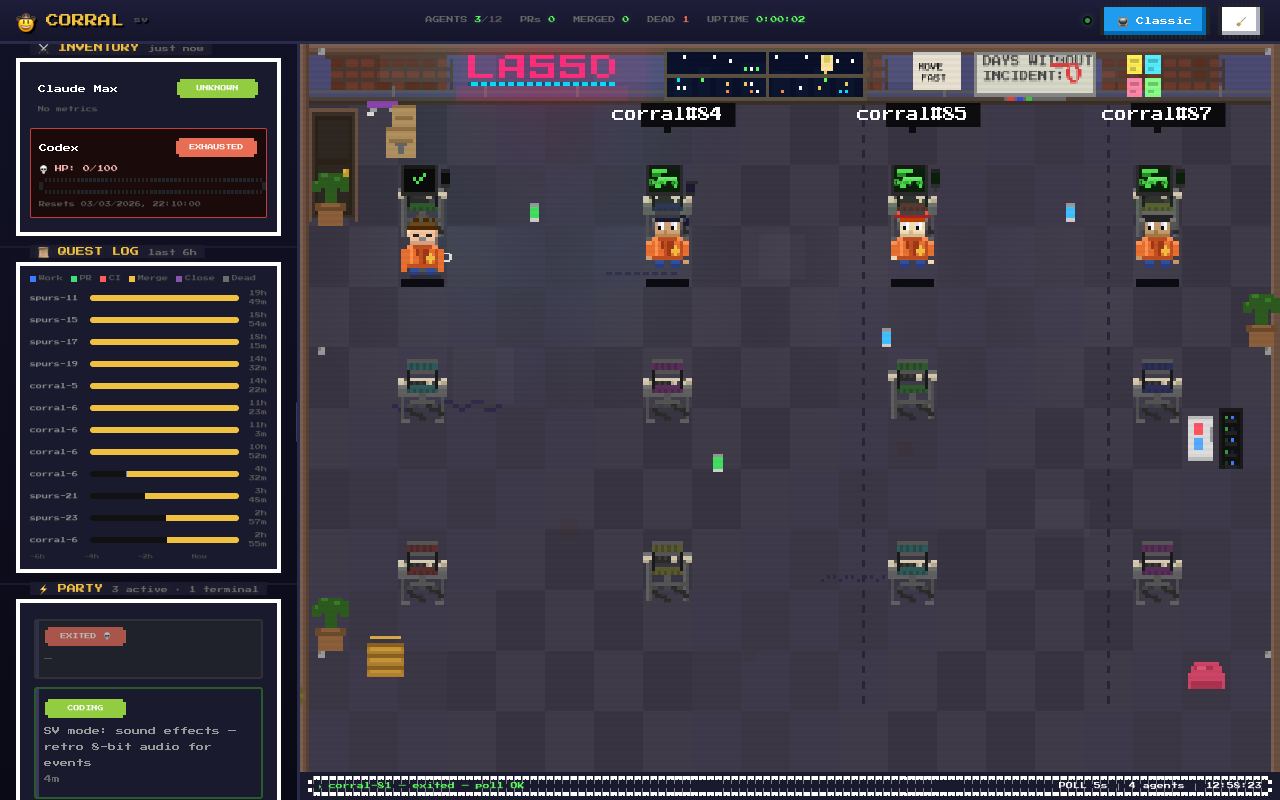
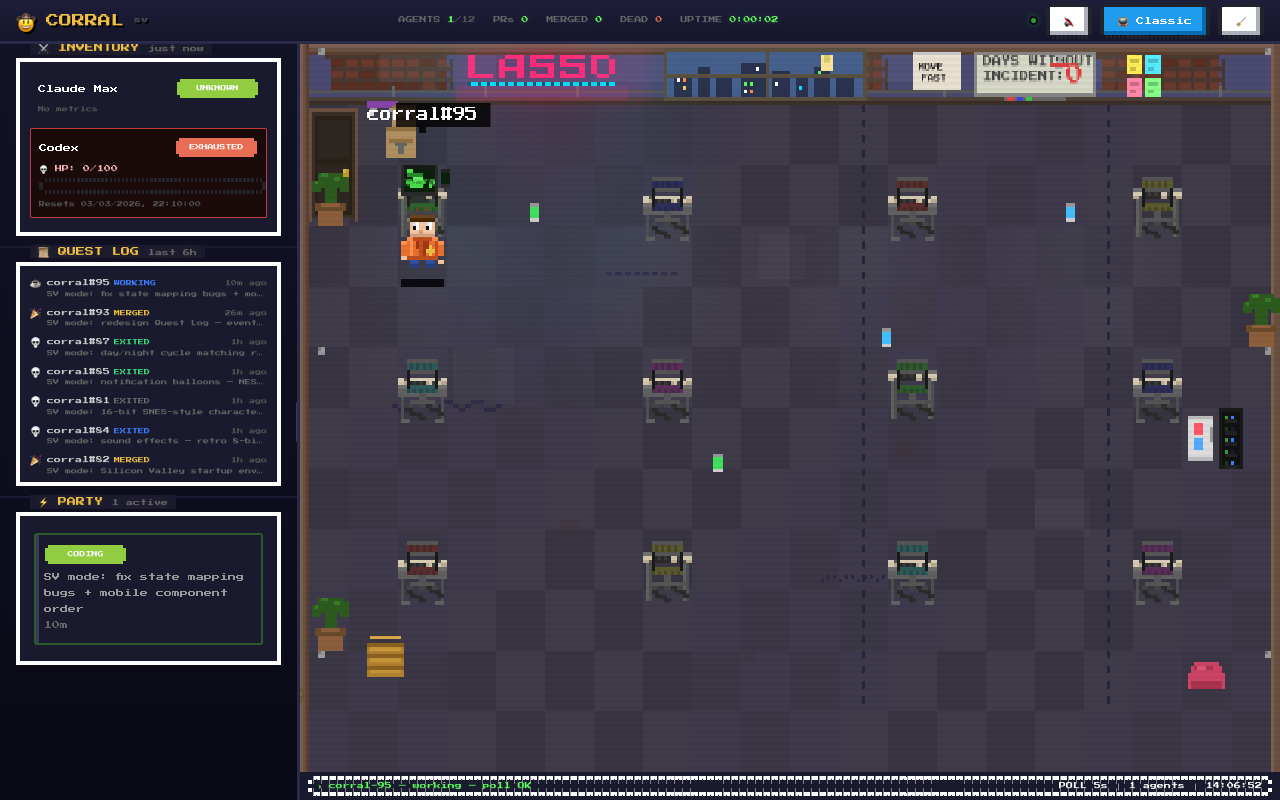
SV mode: fix state mapping bugs + mobile component order
- mapState: move endedAt check after status-based checks so merged
  agents show as merged (not dead)
- stateLabel: remove redundant emoji from dead/exited labels
- Mobile: canvas first via CSS order, sidebar below
- Mobile sidebar order: PARTY → QUEST LOG → INVENTORY

diff --git a/sv.html b/sv.html
@@ -507,8 +507,10 @@
       min-height: calc(100vh - 70px);
     }
 
-    /* Sidebar: stacked below canvas on mobile */
+    /* Canvas first on mobile, sidebar below */
+    .scene-wrap { order: 1; }
     .sidebar {
+      order: 2;
       position: static;
       width: 100%;
       max-width: none;
@@ -520,7 +522,14 @@
       border-right: none;
       border-top: 2px solid #f0c040;
       overflow-y: visible;
+      display: flex;
+      flex-direction: column;
     }
+
+    /* Sidebar section order: PARTY → QUEST LOG → INVENTORY */
+    .sidebar > .sb-section:nth-child(2) { order: 3; } /* INVENTORY → last */
+    .sidebar > .sb-section:nth-child(3) { order: 2; } /* QUEST LOG → middle */
+    .sidebar > .sb-section:nth-child(4) { order: 1; } /* PARTY → first */
 
     /* Hide desktop resize handle on mobile */
     .resize-handle { display: none; }
@@ -833,14 +842,16 @@ function resolveAgentType(agent) {
 
 function mapState(agent) {
   if (!agent) return 'idle';
-  if (agent.endedAt || agent.ended_at) return 'dead';
   const status = (agent.status || '').toLowerCase();
   const activity = (agent.activity || '').toLowerCase();
+  // Check explicit status FIRST, before endedAt
   if (status.includes('merged') || activity.includes('merged')) return 'merged';
   if (status.includes('pr_closed') || activity.includes('pr_closed')) return 'pr_closed';
   if (status.includes('exited') || activity.includes('exited') ||
       status.includes('archived') || activity.includes('archived')) return 'exited';
   if (status.includes('dead') || activity.includes('dead')) return 'dead';
+  // endedAt as fallback for agents with no clear status
+  if (agent.endedAt || agent.ended_at) return 'exited';
   if (status.includes('pr_review') || status.includes('changes_requested')) return 'reading';
   if (status.includes('pr_open') && agent.alive === false) return 'review_waiting';
   if (status.includes('pr_open') || status.includes('ci') || activity.includes('stale')) return 'waiting';
@@ -856,8 +867,8 @@ function stateLabel(state) {
     case 'waiting': return 'PR open';
     case 'merged': return 'merged ✓';
     case 'pr_closed': return 'PR closed';
-    case 'exited': return 'exited 💀';
-    case 'dead': return 'done 💀';
+    case 'exited': return 'exited';
+    case 'dead': return 'dead';
     default: return 'idle';
   }
 }
